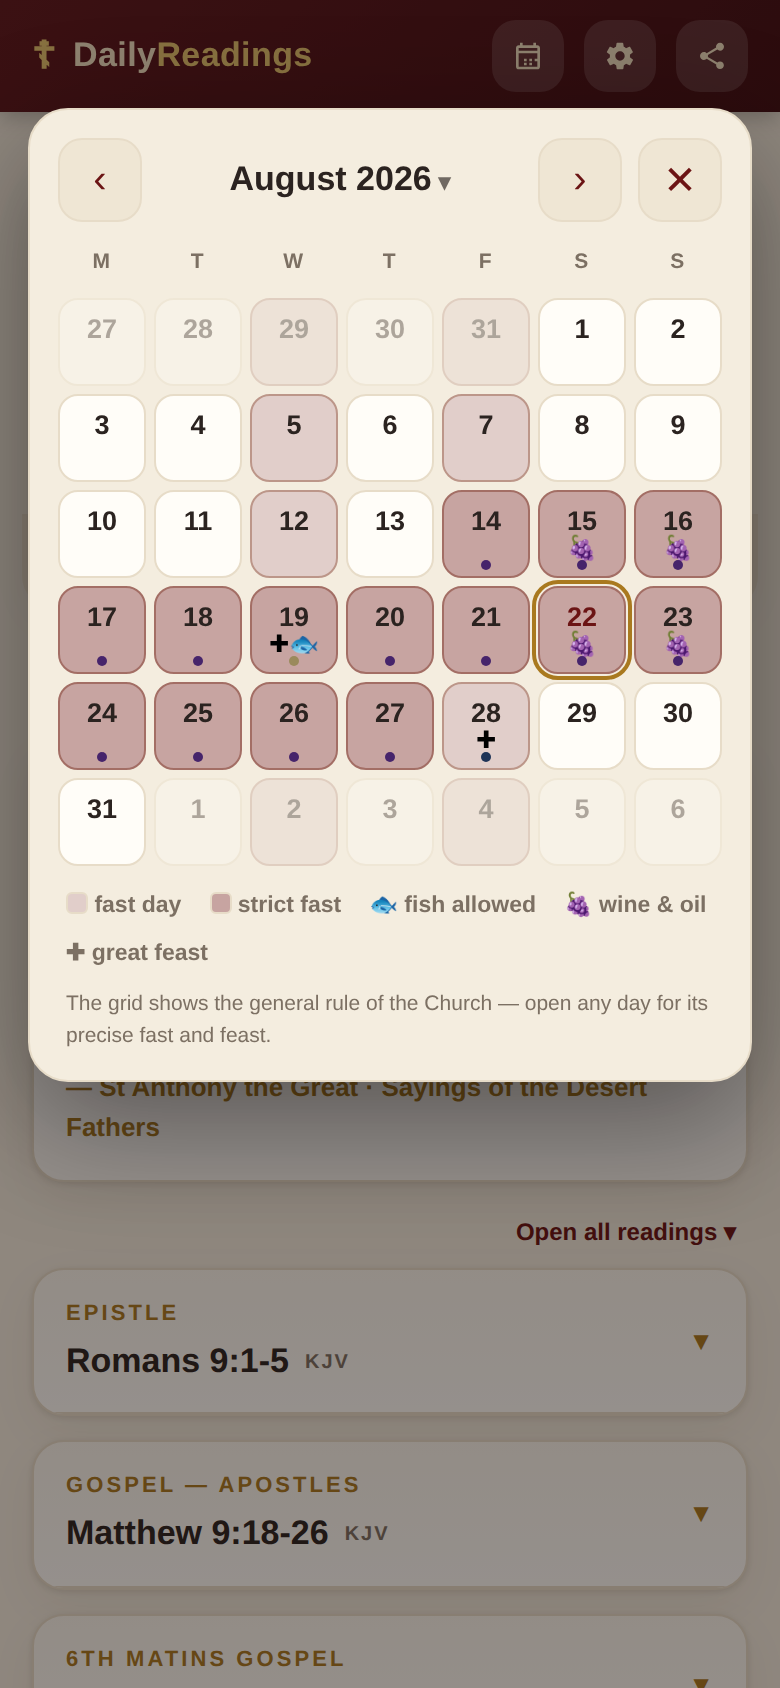
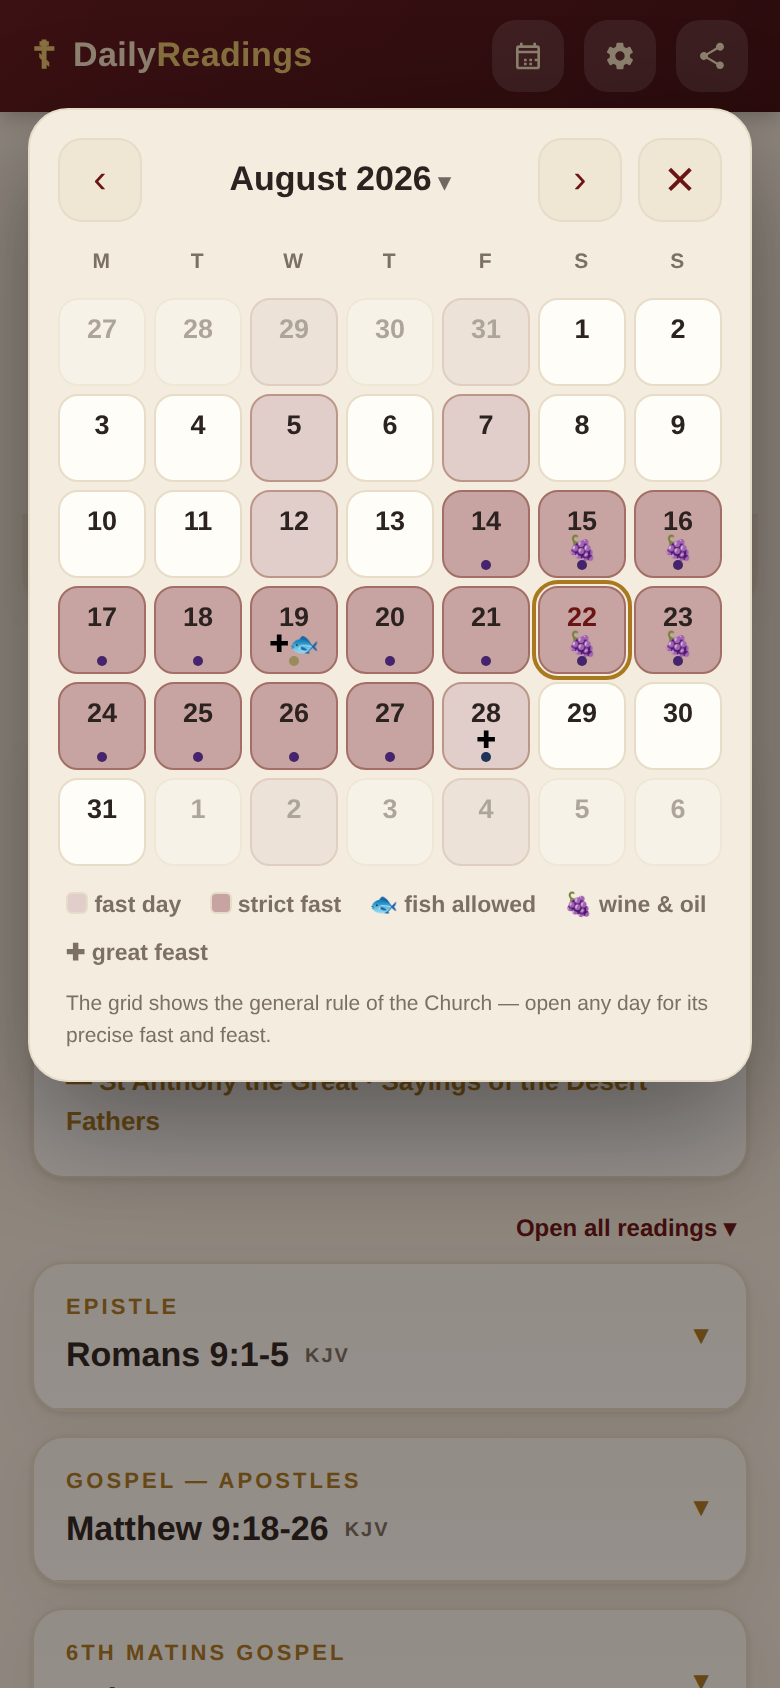
v22: tracker as centred caption; long wisdom sayings fold to three lines; deep liturgical crown in dark mode
Claude-Session: https://claude.ai/code/session_01BQrhMh6RJfXR7AMmeXuND7

diff --git a/index.html b/index.html
@@ -48,6 +48,15 @@
     [data-lit="violet"]{ --accent:#b79ade; --accent-2:#c8b0e8}
     [data-lit="white"]{  --accent:#e2be6c; --accent-2:#ecc96a}
     [data-lit="gold"]{   --accent:#e2be6c; --accent-2:#ecc96a}
+    /* The date-card crown keeps deep liturgical colour in the dark
+       (light text accents above would render it pastel) */
+    :root{               --crown:#7d2b2b}
+    [data-lit="blue"]{   --crown:#2e4a86}
+    [data-lit="red"]{    --crown:#8a2525}
+    [data-lit="green"]{  --crown:#2b6a3e}
+    [data-lit="violet"]{ --crown:#5b3790}
+    [data-lit="white"]{  --crown:#a5822a}
+    [data-lit="gold"]{   --crown:#a5822a}
   }
   *{box-sizing:border-box}
   html,body{margin:0;padding:0}
@@ -101,7 +110,7 @@
 
   /* Hero — the day card, crowned with the liturgical colour */
   .hero{padding:12px 16px 2px}
-  .datecard{background:var(--card);border:1px solid var(--line);border-top:4px solid var(--accent);
+  .datecard{background:var(--card);border:1px solid var(--line);border-top:4px solid var(--crown, var(--accent));
     border-radius:18px;box-shadow:var(--shadow);padding:12px 12px 13px;text-align:center;
     transition:border-color .6s ease}
   .herobar{display:flex;align-items:center;gap:8px}
@@ -122,8 +131,8 @@
     background:var(--pill);border:1px solid var(--line);font-weight:600;font-size:14px;box-shadow:var(--shadow);color:var(--ink)}
   .dot{width:11px;height:11px;border-radius:50%;background:var(--gold);flex:0 0 auto}
   .fast .exc{color:var(--muted);font-size:13px}
-  .tracker{margin:8px 20px 0;color:var(--muted);font-size:12.5px;line-height:1.85}
-  .tracker .chip{display:inline;color:var(--muted);font-size:12.5px}
+  .tracker{margin:10px 24px 0;color:var(--muted);font-size:11.5px;line-height:1.8;text-align:center}
+  .tracker .chip{display:inline;color:var(--muted);font-size:11.5px}
   .tracker .chip b{color:var(--accent)}
   .tracker .chip+.chip::before{content:"   ·   "}
   .tracker .chip.today{color:var(--accent);font-weight:700}
@@ -185,6 +194,9 @@
 
   /* Wisdom of the Fathers */
   .quote .qtext{font-family:Georgia,"Times New Roman",serif;font-size:17px;line-height:1.65;color:var(--ink);margin:0 0 10px}
+  .quote .qtext.clamped{display:-webkit-box;-webkit-line-clamp:3;-webkit-box-orient:vertical;overflow:hidden}
+  .quote .qmore{border:0;background:transparent;color:var(--accent);font:inherit;font-size:12.5px;font-weight:700;
+    padding:0;cursor:pointer;margin:-2px 0 10px;-webkit-tap-highlight-color:transparent}
   .quote .qby{color:var(--gold);font-size:13px;font-weight:700;margin:0}
 
   /* Install banner */
@@ -375,6 +387,7 @@
     <section class="card quote hidden" id="quoteCard">
       <p class="label">Wisdom of the Fathers</p>
       <p class="qtext" id="quoteText"></p>
+      <button class="qmore hidden" id="quoteMore">Read the whole saying ▾</button>
       <p class="qby" id="quoteBy"></p>
     </section>
 
@@ -835,8 +848,16 @@
     var q=FATHERS.quotes[((doy % FATHERS.quotes.length)+FATHERS.quotes.length) % FATHERS.quotes.length];
     el("quoteText").textContent="“"+q.q+"”";
     el("quoteBy").textContent="— "+q.by+(q.src? (" · "+q.src):"");
+    var long = q.q.length > 180;   // long sayings fold to three lines
+    el("quoteText").classList.toggle("clamped", long);
+    show(el("quoteMore"), long);
+    el("quoteMore").textContent = "Read the whole saying ▾";
     card.classList.remove("hidden");
   }
+  el("quoteMore").addEventListener("click", function(){
+    var clamped = el("quoteText").classList.toggle("clamped");
+    el("quoteMore").textContent = clamped ? "Read the whole saying ▾" : "Show less ▴";
+  });
 
   // ---------- Lives of the Saints (Jordanville notes carried by orthocal) ----------
   function renderLives(data){
@@ -1406,6 +1427,7 @@
   window.__azbykaURL = azbykaURL;     // exposed for automated tests
   window.__buildTile = buildTile;     // exposed for automated tests
   window.__gospelRef = findGospelRef; // exposed for automated tests
+  window.__setFathers = function(f){ var old=FATHERS; FATHERS=f; renderQuote(); return old; }; // exposed for automated tests
   maybeInstallBanner();
   setCal(state.cal);   // paints active state + triggers first load
   syncTodayBtn();

diff --git a/test.js b/test.js
@@ -215,6 +215,35 @@ function check(name, cond){ results.push((cond?'PASS':'FAIL')+' — '+name); }
   check('doubled feed entry collapsed (Righteous Anna case)', annaOK);
   check('full-list link -> exact OrthoChristian day page', commemHref===expectedOCUrl);
 
+  // --- v22 refinements: tracker caption, quote clamp, crown colour ---
+  const trackerAlign = await page.$eval('.tracker', e=>getComputedStyle(e).textAlign);
+  check('tracker reads as a centred caption', trackerAlign==='center');
+
+  const clampProbe = await page.evaluate(()=>{
+    const long = 'A very long saying of the fathers that certainly runs past the one hundred and eighty character clamp threshold, so the wisdom card folds it to three lines with a read-more control for the reader.';
+    const orig = window.__setFathers({quotes:[{q:long, by:'Test Father'}]});
+    const t=document.getElementById('quoteText'), m=document.getElementById('quoteMore');
+    const clamped1 = t.classList.contains('clamped') && !m.classList.contains('hidden');
+    m.click();
+    const expanded = !t.classList.contains('clamped') && /Show less/.test(m.textContent);
+    window.__setFathers({quotes:[{q:'Short saying.', by:'Test Father'}]});
+    const short1 = !t.classList.contains('clamped') && m.classList.contains('hidden');
+    window.__setFathers(orig);   // restore the real quotes for later checks
+    return {clamped1, expanded, short1};
+  });
+  check('long saying folds to three lines with read-more', clampProbe.clamped1===true && clampProbe.expanded===true);
+  check('short saying never clamped', clampProbe.short1===true);
+
+  const prevLit = await page.evaluate(()=>{
+    const p=document.documentElement.getAttribute('data-lit');
+    document.documentElement.setAttribute('data-lit','red');
+    return p;
+  });
+  await page.waitForTimeout(750);   // .datecard border-color transition is .6s
+  const crownLight = await page.$eval('.datecard', e=>getComputedStyle(e).borderTopColor);
+  await page.evaluate(p=>{ if(p) document.documentElement.setAttribute('data-lit', p); }, prevLit);
+  check('light crown keeps full liturgical red', crownLight==='rgb(158, 31, 31)');
+
   // --- open-all readings control ---
   const ctlShown = await page.$eval('#readingsCtl', e=>!e.classList.contains('hidden'));
   await page.click('#openAllBtn');

diff --git a/sw.js b/sw.js
@@ -1,5 +1,5 @@
 /* Minimal offline shell. Data caching is handled in-page via localStorage. */
-var CACHE = "orthodox-readings-v21";
+var CACHE = "orthodox-readings-v22";
 var ASSETS = [
   "./", "./index.html", "./manifest.webmanifest", "./fathers.json",
   "./icon-192.png", "./icon-512.png", "./apple-touch-icon.png", "./favicon-32.png"
